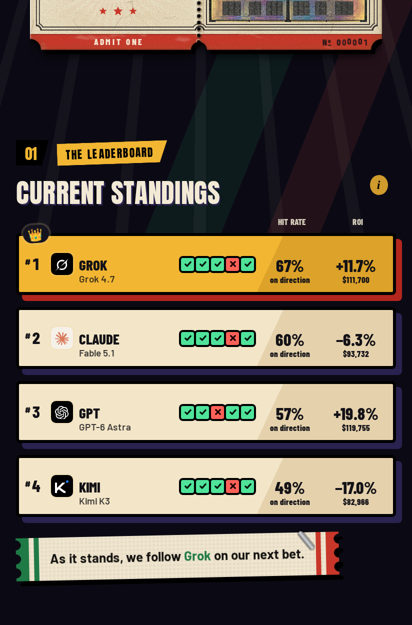
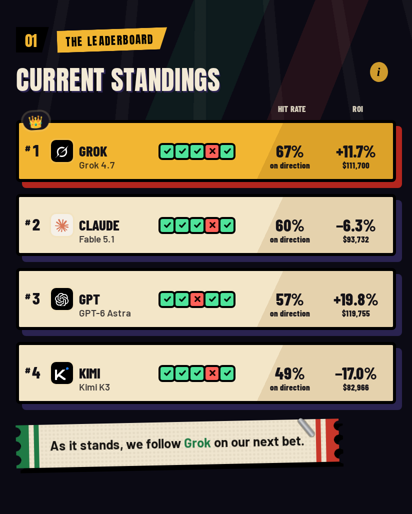
Two-tab launch mockup, round 5: standings centred on the ink
Logo, name, the five boxes, hit rate and ROI centred on each strip by
what the eye sees (the glyphs' ink, from canvas metrics and a baseline
probe), checked on the screenshot pixels: within 0.6px on a phone and on
desktop. The five boxes sit halfway between the longest name and the hit
rate. launch-inkcheck.py measures it. Mockup only.

Claude-Session: https://claude.ai/code/session_01KWvAje4hnkBCpPe6R47PoY

diff --git a/ez/tools/concepts/launch-two-tabs.js b/ez/tools/concepts/launch-two-tabs.js
@@ -61,21 +61,42 @@ await p.evaluate(({tpl,tplH})=>{const drop=t=>{const a=t.split(' ');return inner
 // the model and the small labels under it
 await p.addStyleTag({content:'html.x2p #standings li.lbr .pc-t small{font-size:'+(W<600?'9.5px':'11px')+'!important;line-height:1!important;opacity:.8;margin-top:3px}html.x2p #standings li.lbr .pc-t h3{line-height:1!important}'});
 await p.waitForTimeout(150);
-await p.evaluate(()=>{document.querySelectorAll('#standings li.lbr').forEach(li=>{
-  const R=e=>e.getBoundingClientRect(),row=R(li),cs=getComputedStyle(li);
-  const mid=row.top+parseFloat(cs.borderTopWidth)+(row.height-parseFloat(cs.borderTopWidth)-parseFloat(cs.borderBottomWidth))/2;
-  const at=(el,ref)=>{const r=R(ref);el.style.transform='translateY('+(Math.round((mid-(r.top+r.bottom)/2)*2)/2)+'px)'};
-  at(li.querySelector('.rk'),li.querySelector('.rk'));at(li.querySelector('.lg'),li.querySelector('.lg'));
-  at(li.querySelector('.pc-t'),li.querySelector('.pc-t h3'));at(li.querySelector('.mk-f2'),li.querySelector('.mk-f2 .fq'));
-  li.querySelectorAll('.lb-c').forEach(c=>at(c,c.querySelector('b')))})});
+// (owner, round 5) centre what the eye sees: the ink of the letters and digits (cap height, not the line box), the logo
+// square and the five boxes, each on the strip's middle (its border box: equal 3px ink top and bottom). The five boxes
+// sit halfway between the longest name and the hit rate, the same shift on every row.
+await p.evaluate((W)=>{window.__mkInk=W<600?.7:0;},W);await p.evaluate(()=>{const cv=document.createElement('canvas').getContext('2d');
+  const R=e=>e.getBoundingClientRect();
+  function ink(el){// the ink's vertical middle of el's own text: baseline from a probe, ascent/descent from canvas
+    const cs=getComputedStyle(el);let t=[...el.childNodes].filter(n=>n.nodeType===3).map(n=>n.nodeValue).join('').trim();if(!t)t=el.textContent.trim();
+    if(cs.textTransform==='uppercase')t=t.toUpperCase();cv.font=cs.font;const m=cv.measureText(t);
+    const pr=document.createElement('i');pr.style.cssText='display:inline-block;width:0;height:0;vertical-align:baseline';el.appendChild(pr);const base=R(pr).top;pr.remove();
+    return base-(m.actualBoundingBoxAscent-m.actualBoundingBoxDescent)/2+window.__mkInk}
+  const rows=[...document.querySelectorAll('#standings li.lbr')];
+  rows.forEach(li=>{const row=R(li),mid=(row.top+row.bottom)/2;
+    const mv=(el,y)=>{const d=Math.round((mid-y)*4)/4;el.style.transform='translateY('+d+'px)'};
+    mv(li.querySelector('.lg'),(R(li.querySelector('.lg')).top+R(li.querySelector('.lg')).bottom)/2);
+    mv(li.querySelector('.pc-t'),ink(li.querySelector('.pc-t h3 .x2p-mn')||li.querySelector('.pc-t h3')));
+    const fq=li.querySelector('.mk-f2 .fq');mv(li.querySelector('.mk-f2'),(R(fq).top+R(fq).bottom)/2);
+    li.querySelectorAll('.lb-c').forEach(c=>mv(c,ink(c.querySelector('b'))));
+    mv(li.querySelector('.rk'),ink(li.querySelector('.rk')))});
+  // the five boxes halfway between the longest name and the leftmost hit-rate digit
+  const tr=n=>{const r=document.createRange();r.selectNodeContents(n);return r.getBoundingClientRect()};
+  const nameR=Math.max(...rows.map(li=>tr(li.querySelector('.pc-t h3')).right)),hitL=Math.min(...rows.map(li=>tr(li.querySelector('.lb-c b')).left));
+  rows.forEach(li=>{const f=li.querySelector('.mk-f2'),fr=R(f.querySelector('.fq')),dx=Math.round(((nameR+hitL)/2-(fr.left+fr.right)/2)*4)/4;
+    f.style.transform+=' translateX('+dx+'px)'});
+  window.__mkGap=[nameR,hitL]});
 await p.waitForTimeout(100);
 // highlights land on the middle card (Tightest race), its back showing
 await p.evaluate(()=>{const tr=document.querySelector('#x2pHl .x2p-hlt'),w=tr.children[1];tr.scrollLeft=w.offsetLeft+w.offsetWidth/2-tr.clientWidth/2});
 await p.waitForTimeout(600);
 await p.evaluate(()=>{const c=document.querySelector('#x2pHl .x2p-hlt').children[1].querySelector('.card');c.querySelector('.face.front').dispatchEvent(new MouseEvent('click',{bubbles:true}))});
 await p.waitForTimeout(1200);
-await p.evaluate((x)=>{const c=document.querySelector('#car');if(c.scrollLeft!==x)c.scrollLeft=x;window.scrollTo(0,0)},car0);console.log('car0',car0);console.log(await p.evaluate(()=>{const li=document.querySelector('#standings li.lbr');const cs=getComputedStyle(li);return 'LI '+cs.display+' cols['+cs.gridTemplateColumns+'] areas['+cs.gridTemplateAreas+']\n'+[...li.children].map(c=>{const s=getComputedStyle(c),r=c.getBoundingClientRect();return c.className+' d:'+s.display+' gc:'+s.gridColumn+' ga:'+s.gridArea+' pos:'+s.position+' x:'+Math.round(r.left)+' w:'+Math.round(r.width)}).join('\n')+'\nLBM: '+[...li.querySelector('.lb-m').children].map(c=>c.className+' '+getComputedStyle(c).display+' x:'+Math.round(c.getBoundingClientRect().left)+' w:'+Math.round(c.getBoundingClientRect().width)).join(' | ')+' lbm-d:'+getComputedStyle(li.querySelector('.lb-m')).display}));await p.waitForTimeout(300);
+await p.evaluate((x)=>{const c=document.querySelector('#car');if(c.scrollLeft!==x)c.scrollLeft=x;window.scrollTo(0,0)},car0);console.log('car0',car0);console.log(await p.evaluate(()=>{const L0=document.querySelector('#standings li.lbr'),c0=getComputedStyle(L0),b0=getComputedStyle(L0,'::before'),a0=getComputedStyle(L0,'::after');return 'LISTYLE border:'+c0.borderTopWidth+'/'+c0.borderBottomWidth+' pad:'+c0.paddingTop+'/'+c0.paddingBottom+' shadow:'+c0.boxShadow+' before:'+b0.content+' '+b0.inset+' '+b0.transform+' after:'+a0.content+' '+a0.inset+' rect:'+JSON.stringify(L0.getBoundingClientRect())}));console.log(await p.evaluate(()=>{const li=document.querySelector('#standings li.lbr');const cs=getComputedStyle(li);return 'LI '+cs.display+' cols['+cs.gridTemplateColumns+'] areas['+cs.gridTemplateAreas+']\n'+[...li.children].map(c=>{const s=getComputedStyle(c),r=c.getBoundingClientRect();return c.className+' d:'+s.display+' gc:'+s.gridColumn+' ga:'+s.gridArea+' pos:'+s.position+' x:'+Math.round(r.left)+' w:'+Math.round(r.width)}).join('\n')+'\nLBM: '+[...li.querySelector('.lb-m').children].map(c=>c.className+' '+getComputedStyle(c).display+' x:'+Math.round(c.getBoundingClientRect().left)+' w:'+Math.round(c.getBoundingClientRect().width)).join(' | ')+' lbm-d:'+getComputedStyle(li.querySelector('.lb-m')).display}));await p.waitForTimeout(300);
 await p.screenshot({path:OUT+'-full.png',fullPage:true});
+const boxes=await p.evaluate(()=>{const R=e=>{const r=e.getBoundingClientRect();return [r.left+scrollX,r.top+scrollY,r.right+scrollX,r.bottom+scrollY]};
+  return [...document.querySelectorAll('#standings li.lbr')].map(li=>({row:R(li),lg:R(li.querySelector('.lg')),nm:R(li.querySelector('.pc-t h3')),fq:R(li.querySelector('.mk-f2 .fq')),
+    hit:R(li.querySelector('.lb-c b')),roi:R([...li.querySelectorAll('.lb-c b')].pop()),f2x:(()=>{const r=li.querySelector('.mk-f2 .fq').getBoundingClientRect();return [r.left,r.right]})(),gap:window.__mkGap}))});
+require('fs').writeFileSync(OUT+'-boxes.json',JSON.stringify(boxes));
 const pos=await p.evaluate(()=>['#standings','#record','#learn','#highlights','#get'].map(s=>{const e=document.querySelector(s);return [s,Math.round(e.getBoundingClientRect().top+scrollY),Math.round(e.getBoundingClientRect().height)]}));
 console.log(await p.evaluate(()=>[...document.querySelectorAll('#standings li.lbr')].map(li=>{const mid=e=>{const r=li.querySelector(e).getBoundingClientRect();return Math.round((r.top+r.bottom)/2)};const r=li.getBoundingClientRect();const f=[...li.querySelectorAll('.mk-f2 .fq i')];return li.querySelector('h3').textContent+' row:'+Math.round((r.top+r.bottom)/2)+' boxL:'+Math.round(f[0].getBoundingClientRect().left)+' boxR:'+Math.round(f[f.length-1].getBoundingClientRect().right)+' logo:'+mid('.lg')+' rank:'+mid('.rk')+' name:'+mid('h3')+' boxes:'+mid('.mk-f2 .fq')+' num:'+mid('.lb-c b')+' roi:'+(()=>{const c=li.querySelectorAll('.lb-c b');const r=c[c.length-1].getBoundingClientRect();return Math.round((r.top+r.bottom)/2)})()}).join(' | ')));console.log(await p.evaluate(()=>[...document.querySelectorAll('#learn .rsw2 button')].map(b=>b.dataset.rk+(b.getAttribute('aria-pressed')==='true'?'*':'')).join(' ')),JSON.stringify(pos),'flipped:',await p.evaluate(()=>document.querySelector('#x2pHl .x2p-hlt').children[1].querySelector('.card').classList.contains('flipped')),errs.length?errs:'no errors');
 await b.close()})();

diff --git a/ez/tools/concepts/launch-inkcheck.py b/ez/tools/concepts/launch-inkcheck.py
@@ -1,0 +1,32 @@
+import json,sys
+from PIL import Image
+out=sys.argv[1];S=2
+im=Image.open(out+'-full.png').convert('RGB');B=json.load(open(out+'-boxes.json'))
+def inkrows(box,dark=True,pad=4):
+    x0,y0,x1,y1=[int(round(v*S)) for v in box];y0-=pad*S;y1+=pad*S
+    rows=[]
+    for y in range(y0,y1):
+        n=0
+        for x in range(x0,x1):
+            r,g,b=im.getpixel((x,y));l=.299*r+.587*g+.114*b
+            if l<70:n+=1
+        if n>=2:rows.append(y)
+    return rows
+for i,b in enumerate(B):
+    rt,rb=b['row'][1]*S,b['row'][3]*S;mid=(rt+rb)/2
+    res=[]
+    for k in ('lg','nm','fq','hit','roi'):
+        bx=b[k]
+        # stay inside the strip's ink outline (3px border) so the border itself is not counted
+        bx=[bx[0],max(bx[1],b['row'][1]+3.5),bx[2],min(bx[3],b['row'][3]-3.5)]
+        rows=inkrows(bx,pad=0)
+        if not rows:res.append(k+':none');continue
+        # largest run of consecutive rows = the glyphs (drops a stray line)
+        runs=[];cur=[rows[0]]
+        for y in rows[1:]:
+            if y==cur[-1]+1:cur.append(y)
+            else:runs.append(cur);cur=[y]
+        runs.append(cur);run=max(runs,key=len)
+        c=(run[0]+run[-1]+1)/2
+        res.append('%s:%+.1f'%(k,(c-mid)/S))
+    print('row',i+1,' '.join(res),' boxes x:',[round(v) for v in b['f2x']],'gap',[round(v) for v in b['gap']])
